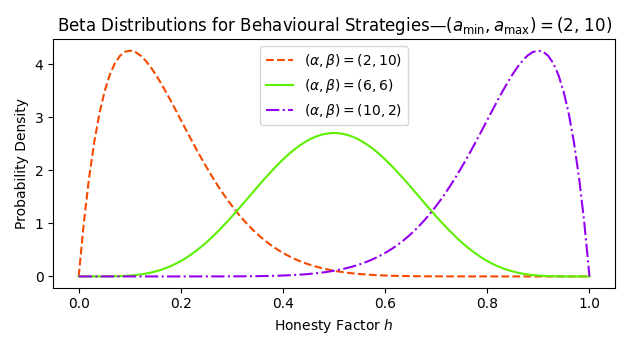
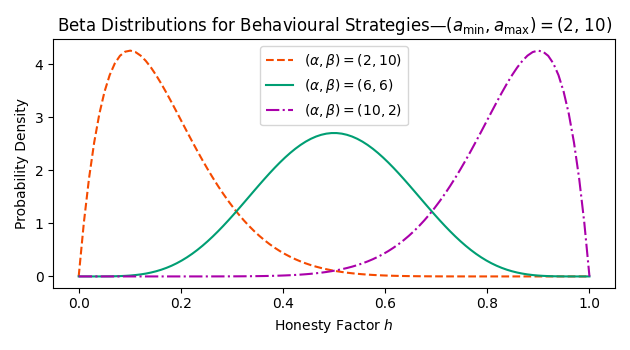
First draft of figures for reputaion, profit, active nodes over time

diff --git a/Figures.py b/Figures.py
@@ -1,0 +1,51 @@
+####### Create figures from CSV Data #######
+import matplotlib.pyplot as plt
+import pandas as pd
+
+csvfile_name = "fisie_state_data.csv"
+df = pd.read_csv(csvfile_name)
+
+# Plot Parameters
+strats = ['Conservative', 'Aggressive', 'Cyclic', 'Balanced', 'Opportunistic']
+# Dark Blue, Sky Blue, Reddish-Orange, Green, Pinkish-Purple
+colours = ['#0072B2', '#56B4E9', '#F54A00', '#009E73', '#AA00AA']
+dashes = ['-', '--', '-.', ':', (0,(4,1,1,1,1,1))]
+
+plt.figure(figsize=(8, 4.6))
+for i, s in enumerate(strats):
+    df_strat = df[df['strategy']==s]
+    avg_rep = df_strat['avg_reputation']
+    time = df_strat['Time']
+    plt.plot(time, avg_rep, color=colours[i], label=s, linestyle=dashes[i])
+plt.xlabel(r"Audit Cycle $t$")
+plt.ylabel(r"Avg. Reputation $r_f(t)$")
+plt.legend(title="Legend — Strategies", title_fontproperties={'weight': 'bold', 'size': 'small'})
+plt.title("Reputation over Time by Strategy")
+plt.tight_layout()
+plt.show()
+
+plt.figure(figsize=(8, 4.6))
+for i, s in enumerate(strats):
+    df_strat = df[df['strategy']==s]
+    avg_profit = df_strat['avg_profit']
+    time = df_strat['Time']
+    plt.plot(time, avg_profit, color=colours[i], label=s, linestyle=dashes[i])
+plt.xlabel(r"Audit Cycle $t$")
+plt.ylabel(r"Avg. Profit $G_f(t)$")
+plt.legend(title="Legend — Strategies", title_fontproperties={'weight': 'bold', 'size': 'small'})
+plt.title("Profit over Time by Strategy")
+plt.tight_layout()
+plt.show()
+
+plt.figure(figsize=(8, 4.6))
+for i, s in enumerate(strats):
+    df_strat = df[df['strategy']==s]
+    fog_count = df_strat['fog_count']
+    time = df_strat['Time']
+    plt.plot(time, fog_count, color=colours[i], label=s,linestyle=dashes[i])
+plt.xlabel(r"Audit Cycle $t$")
+plt.ylabel(r"No. of Active Fog Nodes $|F^A_t|$")
+plt.legend(title="Legend — Strategies", title_fontproperties={'weight': 'bold', 'size': 'small'})
+plt.title("Active Fog Nodes over Time by Strategy")
+plt.tight_layout()
+plt.show()

diff --git a/BetaDistribution.py b/BetaDistribution.py
@@ -53,8 +53,9 @@ def plot_beta():
     ab_mid = int((ab_min + ab_max)/2)
     ab_array = [(ab_min, ab_max), (ab_mid, ab_mid), (ab_max, ab_min)]
     dashes = ['--', '-', '-.']
-    colours = ['#F54A00', '#5CF000', '#9400F0']
-
+    # colours = ['#F54A00', '#5CF000', '#9400F0']
+    # Reddish-Orange, Green, Pinkish-Purple
+    colours = ['#F54A00', '#009E73', '#AA00AA']
 
     plt.subplots(figsize=(6.3,3.5))
     for i, ab in enumerate(ab_array):
@@ -73,3 +74,5 @@ def plot_beta():
     plt.ylabel(r'Probability Density', fontsize=10)
     plt.tight_layout()
     plt.show()
+
+# plot_beta()
